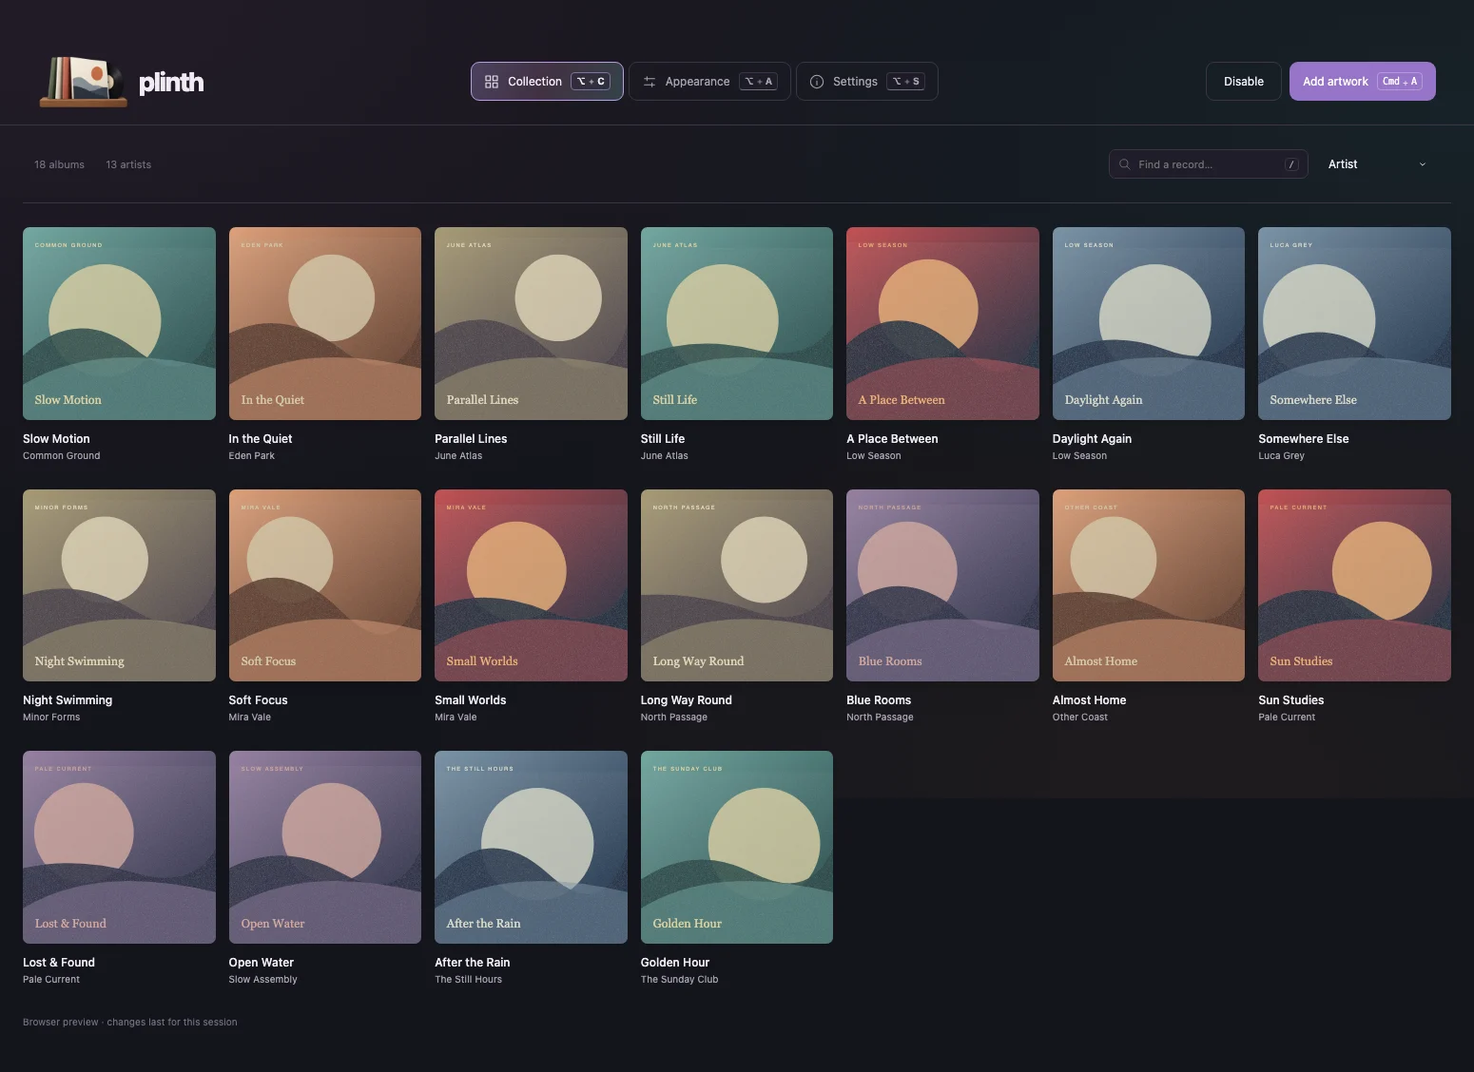
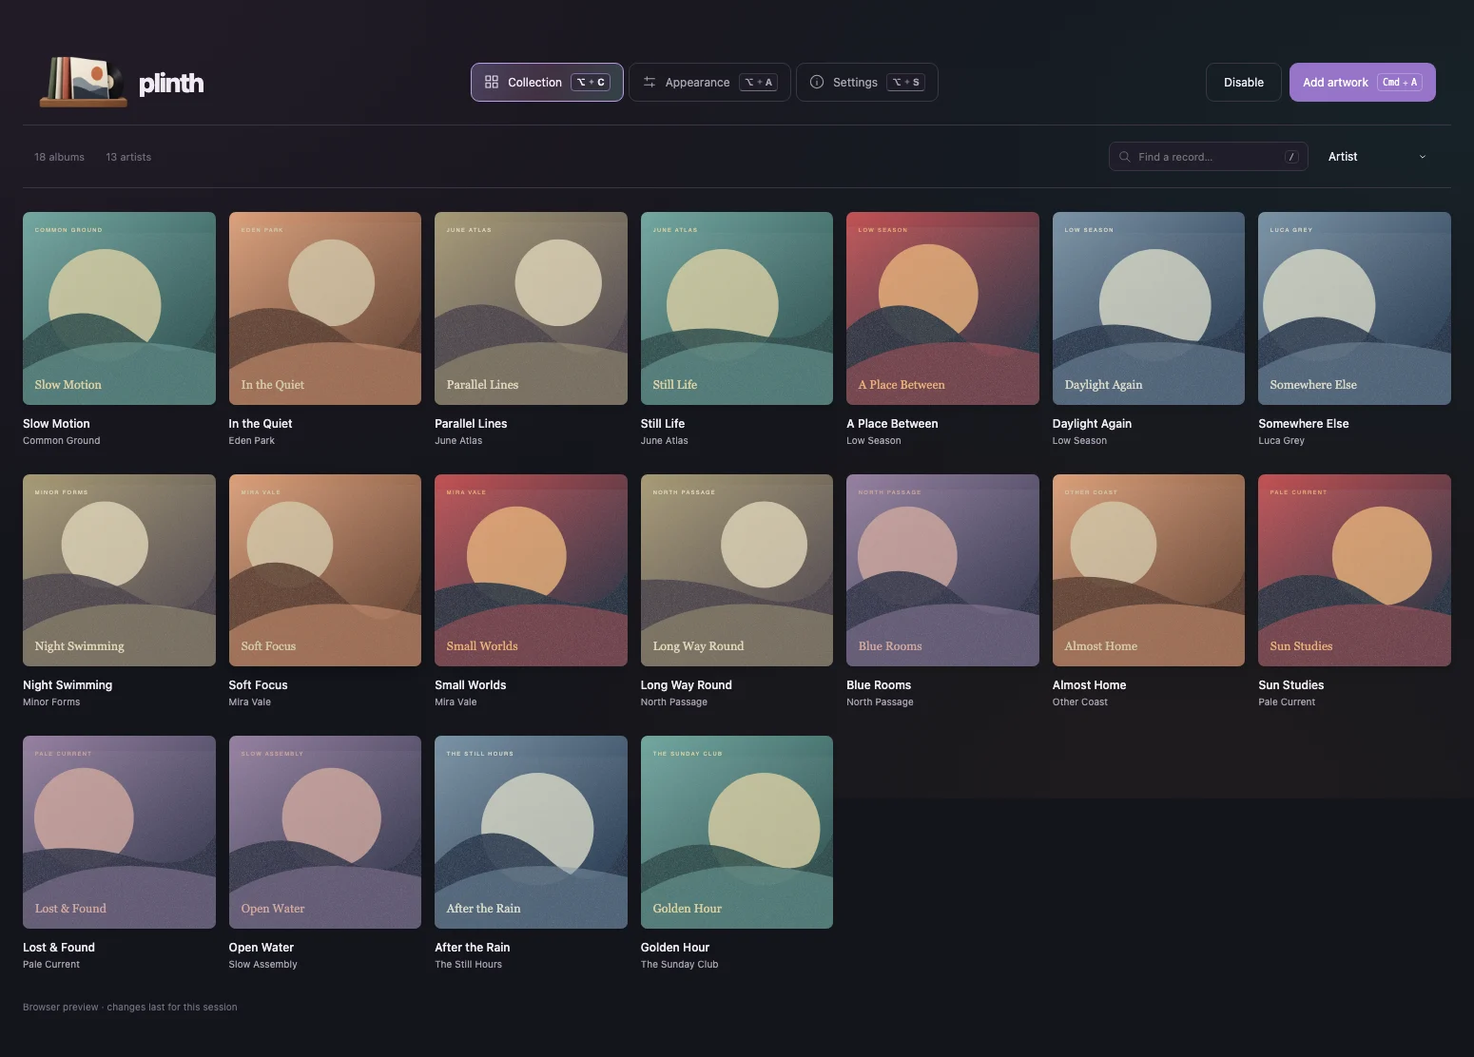
Tighten the collection toolbar row and inset the header divider to match

diff --git a/src/app.css b/src/app.css
@@ -1,8 +1,8 @@
 *{box-sizing:border-box} :root{font-family:-apple-system,BlinkMacSystemFont,'Segoe UI',sans-serif;font-size:14px;color-scheme:dark;--background:radial-gradient(ellipse at 5% 0%,#58334d38,transparent 48%),radial-gradient(ellipse at 100% 15%,#28686829,transparent 44%),radial-gradient(ellipse at 80% 100%,#65482d21,transparent 48%),#14151c;--paper:#201d29e6;--paper-strong:#292531;--ink:#f0ebf3;--muted:#aaa1b3;--faint:#726d7e;--line:#3c3547;--accent:#b99ce7;--accent-bg:#9774c9;--danger:#ef9baa}
 :root[data-theme=light]{color-scheme:light;--background:radial-gradient(ellipse at 0% 0%,#efdce9,transparent 55%),radial-gradient(ellipse at 100% 10%,#dcefee,transparent 50%),#f7f5f3;--paper:#fffdfcd9;--paper-strong:#f0ebf1;--ink:#2b2632;--muted:#7f7387;--faint:#93899a;--line:#dfd6e4;--accent:#74509e;--accent-bg:#805ba9;--danger:#a94057}
 body{margin:0;background:var(--background);background-attachment:fixed;color:var(--ink);min-width:360px}button,input,select{font:inherit}button,select{cursor:pointer}button{display:inline-flex;align-items:center;justify-content:center;gap:9px;border:1px solid var(--line);border-radius:9px;background:transparent;color:var(--ink);padding:10px 14px;transition:background .15s,border-color .15s}button:hover:not(:disabled){background:var(--paper-strong);border-color:var(--faint)}button:disabled{opacity:.5;cursor:default}button.primary{background:var(--accent-bg);border-color:transparent;color:#fff}button.primary:hover:not(:disabled){background:color-mix(in srgb,var(--accent-bg) 85%,white)}button.icon-only{width:34px;height:34px;padding:7px;border-color:transparent;background:transparent}button.text-button{padding:0;border:0;color:var(--accent);background:none;font-size:12px}button:focus-visible,a:focus-visible,input:focus-visible,select:focus-visible{outline:1px solid var(--faint);outline-offset:2px}svg{display:block;flex:0 0 auto}h1,h2,h3,p{margin:0}h1{font-size:34px;font-weight:550;letter-spacing:-1.2px;line-height:1.3}h2{font-size:17px;font-weight:550;letter-spacing:-.3px}small{font-size:12px;color:var(--muted)}input,select{border:1px solid var(--line);background:var(--paper);color:var(--ink);border-radius:8px;padding:10px 12px;min-width:0}select{font-size:12px}label{display:grid;gap:8px;font-size:12px}a{color:inherit;text-decoration:none}kbd{font:10px ui-monospace,monospace;padding:3px 5px;border:1px solid var(--line);border-radius:4px;color:var(--muted)}kbd.shortcut{display:inline-flex;align-items:center;gap:3px;white-space:nowrap}.shortcut-plus{opacity:.75;transform:translateY(1.5px)}
-.titlebar{height:34px;padding:0 27px 0 86px;display:flex;align-items:center;justify-content:space-between;color:var(--faint);font-size:10px;letter-spacing:.2px;user-select:none}.local-indicator{display:flex;gap:6px;align-items:center}.local-indicator>span{width:4px;height:4px;border-radius:50%;background:#85b7a0}header{height:92px;border-bottom:1px solid var(--line);display:flex;align-items:center;justify-content:space-between;gap:24px;padding:0 40px}.header-actions{display:flex;align-items:stretch;gap:8px;flex-shrink:0}.header-actions>button{font-size:12px;padding:10px 13px}.brand{display:flex;align-items:center;gap:10px;font-size:28px;font-weight:760;letter-spacing:-1.4px}.brand-mark{--brand-logo-size:40px;display:flex;align-items:center;justify-content:center;flex-shrink:0;width:var(--brand-logo-size);height:40px}.brand-mark[data-logo="logo-1"]{--brand-logo-size:96px}.brand-mark[data-logo="logo-2"]{--brand-logo-size:72px;margin-right:-8px}.brand-mark svg{width:var(--brand-logo-size);height:var(--brand-logo-size);align-self:center}.version{font-size:9px;font-weight:400;letter-spacing:0;color:var(--faint);align-self:start;padding-top:6px}nav{display:flex;gap:5px}nav button{font-size:12px;border-color:var(--line);padding:10px 13px;color:var(--muted)}nav button:not(.active){background:transparent}nav button.active,nav button.active:hover:not(:disabled){background:linear-gradient(115deg,color-mix(in srgb,var(--accent) 28%,var(--paper)),color-mix(in srgb,#c882ab 20%,var(--paper)) 48%,color-mix(in srgb,#72bab5 24%,var(--paper)));border-color:var(--accent);color:var(--ink)}nav button>svg{width:16px;height:16px}main{max-width:1440px;margin:0 auto;padding:40px 44px 0}.page-heading{display:flex;justify-content:space-between;align-items:center;gap:20px;margin-bottom:36px}.eyebrow{display:block;color:var(--faint);font-size:9px;letter-spacing:1.7px;font-weight:550;margin-bottom:10px}.page-heading p{margin-top:9px;font-size:13px;color:var(--muted);line-height:1.6}.status-pill{font-size:11px;border-radius:22px;padding:9px 13px;background:var(--paper);color:var(--muted);white-space:nowrap}.status-pill svg{width:12px;height:12px;margin-left:5px}.status-dot{width:6px;height:6px;border-radius:50%;background:#83c9ac;box-shadow:0 0 8px #83c9ac22}.paused .status-dot{background:var(--faint)}
-.collection-toolbar{display:flex;align-items:center;justify-content:space-between;gap:20px;border-bottom:1px solid var(--line);margin-bottom:25px;padding:0 12px 24px}.collection-tabs{display:flex;align-items:center;gap:22px;align-self:stretch}.collection-meta{display:flex;align-items:center;font-size:11px;color:var(--faint)}.toolbar-right{display:flex;gap:10px;align-items:center}.toolbar-right select{border-color:transparent;background:transparent;padding-right:5px}.search{display:flex;align-items:center;gap:8px;border:1px solid var(--line);background:var(--paper);border-radius:7px;padding:0 9px;color:var(--faint)}.search>svg{width:14px;height:14px}.search input{width:145px;border:0;background:none;padding:8px 0;font-size:11px}.search kbd{padding:1px 4px;font-size:9px}.album-grid{display:grid;grid-template-columns:repeat(6,minmax(0,1fr));gap:22px 14px}.album-card{min-width:0;position:relative}.artwork{display:block;position:relative;width:100%;padding:0;border:0;border-radius:7px;background:var(--paper-strong);aspect-ratio:1;box-shadow:0 5px 10px #0002;overflow:hidden;transition:transform .2s,box-shadow .2s}.album-edit:hover .artwork{box-shadow:0 8px 20px #0004}.artwork img{width:100%;height:100%;object-fit:cover;display:block}.album-edit{display:block;width:100%;padding:0;border:0;border-radius:0;text-align:left}.album-edit:hover:not(:disabled){background:transparent}.album-caption{display:block;min-width:0;padding:11px 0 8px}.album-title{display:block;font-size:12px;font-weight:500;letter-spacing:0;overflow:hidden;text-overflow:ellipsis;white-space:nowrap;line-height:1.5}.album-artist{display:block;color:var(--muted);font-size:10px;margin-top:2px;text-overflow:ellipsis;overflow:hidden;white-space:nowrap}.album-card.disabled img{opacity:.4}.hidden-label{position:absolute;top:8px;left:8px;border-radius:4px;background:#000b;padding:4px 6px;font-size:9px;color:white}.import-strip{display:flex;align-items:center;justify-content:space-between;gap:16px;margin-top:34px;padding:20px 22px;border:1px dashed var(--line);border-radius:10px}.import-copy{display:flex;align-items:center;gap:15px}.folder-mark{display:grid;place-items:center;width:34px;height:34px;border-radius:8px;background:var(--paper-strong);color:var(--accent)}.import-copy strong{font-size:12px;font-weight:500}.import-copy p{font-size:11px;color:var(--muted);margin-top:5px}.import-strip>button{font-size:11px;padding:8px 10px;white-space:nowrap}.import-strip>button svg{width:13px;height:13px}footer{display:flex;align-items:center;justify-content:space-between;gap:20px;padding:25px 0;color:var(--faint);font-size:10px}footer>span:first-child{display:flex;align-items:center;gap:7px}footer svg{width:14px;height:14px}
+.titlebar{height:34px;padding:0 27px 0 86px;display:flex;align-items:center;justify-content:space-between;color:var(--faint);font-size:10px;letter-spacing:.2px;user-select:none}.local-indicator{display:flex;gap:6px;align-items:center}.local-indicator>span{width:4px;height:4px;border-radius:50%;background:#85b7a0}header{height:92px;position:relative;display:flex;align-items:center;justify-content:space-between;gap:24px;padding:0 40px}.header-actions{display:flex;align-items:stretch;gap:8px;flex-shrink:0}.header-actions>button{font-size:12px;padding:10px 13px}.brand{display:flex;align-items:center;gap:10px;font-size:28px;font-weight:760;letter-spacing:-1.4px}.brand-mark{--brand-logo-size:40px;display:flex;align-items:center;justify-content:center;flex-shrink:0;width:var(--brand-logo-size);height:40px}.brand-mark[data-logo="logo-1"]{--brand-logo-size:96px}.brand-mark[data-logo="logo-2"]{--brand-logo-size:72px;margin-right:-8px}.brand-mark svg{width:var(--brand-logo-size);height:var(--brand-logo-size);align-self:center}.version{font-size:9px;font-weight:400;letter-spacing:0;color:var(--faint);align-self:start;padding-top:6px}nav{display:flex;gap:5px}nav button{font-size:12px;border-color:var(--line);padding:10px 13px;color:var(--muted)}nav button:not(.active){background:transparent}nav button.active,nav button.active:hover:not(:disabled){background:linear-gradient(115deg,color-mix(in srgb,var(--accent) 28%,var(--paper)),color-mix(in srgb,#c882ab 20%,var(--paper)) 48%,color-mix(in srgb,#72bab5 24%,var(--paper)));border-color:var(--accent);color:var(--ink)}nav button>svg{width:16px;height:16px}main{max-width:1440px;margin:0 auto;padding:40px 44px 0}.page-heading{display:flex;justify-content:space-between;align-items:center;gap:20px;margin-bottom:36px}.eyebrow{display:block;color:var(--faint);font-size:9px;letter-spacing:1.7px;font-weight:550;margin-bottom:10px}.page-heading p{margin-top:9px;font-size:13px;color:var(--muted);line-height:1.6}.status-pill{font-size:11px;border-radius:22px;padding:9px 13px;background:var(--paper);color:var(--muted);white-space:nowrap}.status-pill svg{width:12px;height:12px;margin-left:5px}.status-dot{width:6px;height:6px;border-radius:50%;background:#83c9ac;box-shadow:0 0 8px #83c9ac22}.paused .status-dot{background:var(--faint)}
+.collection-toolbar{display:flex;align-items:center;justify-content:space-between;gap:20px;border-bottom:1px solid var(--line);margin:-8px 0 25px;padding:0 12px 16px}.collection-tabs{display:flex;align-items:center;gap:22px;align-self:stretch}.collection-meta{display:flex;align-items:center;font-size:11px;color:var(--faint)}.toolbar-right{display:flex;gap:10px;align-items:center}.toolbar-right select{border-color:transparent;background:transparent;padding-right:5px}.search{display:flex;align-items:center;gap:8px;border:1px solid var(--line);background:var(--paper);border-radius:7px;padding:0 9px;color:var(--faint)}.search>svg{width:14px;height:14px}.search input{width:145px;border:0;background:none;padding:8px 0;font-size:11px}.search kbd{padding:1px 4px;font-size:9px}.album-grid{display:grid;grid-template-columns:repeat(6,minmax(0,1fr));gap:22px 14px}.album-card{min-width:0;position:relative}.artwork{display:block;position:relative;width:100%;padding:0;border:0;border-radius:7px;background:var(--paper-strong);aspect-ratio:1;box-shadow:0 5px 10px #0002;overflow:hidden;transition:transform .2s,box-shadow .2s}.album-edit:hover .artwork{box-shadow:0 8px 20px #0004}.artwork img{width:100%;height:100%;object-fit:cover;display:block}.album-edit{display:block;width:100%;padding:0;border:0;border-radius:0;text-align:left}.album-edit:hover:not(:disabled){background:transparent}.album-caption{display:block;min-width:0;padding:11px 0 8px}.album-title{display:block;font-size:12px;font-weight:500;letter-spacing:0;overflow:hidden;text-overflow:ellipsis;white-space:nowrap;line-height:1.5}.album-artist{display:block;color:var(--muted);font-size:10px;margin-top:2px;text-overflow:ellipsis;overflow:hidden;white-space:nowrap}.album-card.disabled img{opacity:.4}.hidden-label{position:absolute;top:8px;left:8px;border-radius:4px;background:#000b;padding:4px 6px;font-size:9px;color:white}.import-strip{display:flex;align-items:center;justify-content:space-between;gap:16px;margin-top:34px;padding:20px 22px;border:1px dashed var(--line);border-radius:10px}.import-copy{display:flex;align-items:center;gap:15px}.folder-mark{display:grid;place-items:center;width:34px;height:34px;border-radius:8px;background:var(--paper-strong);color:var(--accent)}.import-copy strong{font-size:12px;font-weight:500}.import-copy p{font-size:11px;color:var(--muted);margin-top:5px}.import-strip>button{font-size:11px;padding:8px 10px;white-space:nowrap}.import-strip>button svg{width:13px;height:13px}footer{display:flex;align-items:center;justify-content:space-between;gap:20px;padding:25px 0;color:var(--faint);font-size:10px}footer>span:first-child{display:flex;align-items:center;gap:7px}footer svg{width:14px;height:14px}
 .empty-state{min-height:370px;display:flex;flex-direction:column;align-items:center;justify-content:center;text-align:center;gap:18px}.empty-state .eyebrow{margin:0}.empty-state h2{font-size:25px}.empty-state p{font-size:13px;line-height:1.8;color:var(--muted)}.empty-art{width:64px;height:64px;background:var(--paper);border:1px solid var(--line);border-radius:16px;display:grid;place-items:center;color:var(--accent)}.empty-art svg{width:30px;height:30px}.actions{display:flex;gap:10px}.panel{background:var(--paper);border:1px solid var(--line);border-radius:13px;padding:24px}.panel-heading{display:flex;align-items:center;justify-content:space-between;margin-bottom:21px}.appearance-layout{display:grid;grid-template-columns:minmax(0,1.6fr) minmax(310px,1fr);gap:32px}.preview-column{position:sticky;top:25px;align-self:start}.section-label{display:flex;justify-content:space-between;color:var(--faint);font-size:9px;letter-spacing:1px;margin-bottom:16px}.section-label>span:last-child{letter-spacing:0}.monitor-preview{position:relative;border:6px solid #302c38;border-bottom-width:16px;border-radius:14px;background:radial-gradient(ellipse at 15% 10%,#735c6880,transparent 60%),linear-gradient(140deg,#253543,#202128 55%,#514e40);height:350px;overflow:hidden;box-shadow:0 16px 35px #0002}.preview-menubar{display:flex;gap:8px;align-items:center;font-size:7px;color:#ddd;background:#ffffff0a;height:15px;padding:0 7px}.preview-menubar svg{width:9px;height:9px}.preview-clock{margin-left:auto}.preview-art{display:grid;align-content:start;max-height:calc(100% - 15px);overflow:auto}.preview-art img{width:100%;aspect-ratio:1;object-fit:cover;transition:transform .2s;position:relative}.preview-art img:hover{transform:scale(var(--preview-scale));z-index:10}.preview-empty{font-size:12px;color:#bbb;grid-column:1/-1;padding:80px 0;text-align:center}.preview-dock{position:absolute;bottom:6px;left:50%;transform:translateX(-50%);display:flex;gap:6px;padding:5px 7px;border:1px solid #ffffff22;background:#ffffff18;border-radius:8px;backdrop-filter:blur(12px)}.preview-dock>span{display:block;width:18px;height:18px;border-radius:5px;background:#90b1be88}.preview-dock>span:nth-child(2){background:#b48caf88}.preview-dock>span:nth-child(3){background:#b9b19188}.preview-dock>span:nth-child(4){background:#91b9a988}.monitor-foot{width:100px;height:29px;background:linear-gradient(#302c38,#403b46);margin:0 auto;border-radius:0 0 12px 12px;clip-path:polygon(30% 0,70% 0,77% 82%,100% 90%,100% 100%,0 100%,0 90%,23% 82%)}.preview-note{color:var(--muted);font-size:11px;display:flex;align-items:center;justify-content:center;gap:8px;line-height:1.6;margin:22px 0}.preview-note svg{width:14px;height:14px}.feature-note{display:flex;gap:15px;border-top:1px solid var(--line);padding-top:25px;margin-top:32px;color:var(--muted)}.feature-note>svg{color:var(--accent)}.feature-note strong{font-size:12px;font-weight:500;color:var(--ink)}.feature-note p{font-size:12px;line-height:1.8;margin-top:8px;max-width:390px}.segmented{display:flex;border:1px solid var(--line);border-radius:8px;padding:3px;gap:3px;margin-bottom:9px}.segmented button{flex:1;padding:7px 4px;font-size:11px;border:0;border-radius:5px;color:var(--muted)}.segmented button.chosen{background:var(--paper-strong);color:var(--ink)}.field-note{font-size:11px;color:var(--muted);line-height:1.7}.slider-field{margin-top:20px;gap:9px}.slider-field>span{display:flex;justify-content:space-between;font-size:12px}.slider-field output{font:11px ui-monospace,monospace;color:var(--muted)}input[type=range]{width:100%;height:4px;margin:5px 0;padding:0;accent-color:var(--accent);cursor:pointer}.toggle-row{display:flex;align-items:center;justify-content:space-between;gap:20px;margin-top:22px;font-size:12px}.toggle-row small{display:block;font-size:10px;color:var(--muted);margin-top:6px}.switch{appearance:none;flex:0 0 auto;width:32px;height:19px;border-radius:20px;padding:0;background:var(--line);border:0;position:relative;cursor:pointer}.switch:after{content:'';display:block;width:13px;height:13px;border-radius:50%;background:#fff;position:absolute;top:3px;left:3px;transition:transform .15s}.switch:checked{background:var(--accent-bg)}.switch:checked:after{transform:translateX(13px)}.control-divider{border-top:1px solid var(--line);margin-top:26px}.settings-grid{display:grid;grid-template-columns:1fr 1fr;gap:22px}.settings-panel h2{margin-bottom:12px;font-size:20px}.settings-panel>p.description{font-size:13px;line-height:1.85;color:var(--muted);margin-bottom:24px}.setting-row{display:flex;align-items:center;justify-content:space-between;gap:16px;margin:25px 0}.setting-row select{max-width:60%}.storage-summary{display:flex;gap:45px;margin:24px 0 30px;color:var(--muted);font-size:11px}.storage-summary strong{display:block;font-size:30px;color:var(--ink);font-weight:500;letter-spacing:-1px;margin-bottom:6px}.settings-panel>button{font-size:12px;margin-bottom:15px}.shortcut-row{border-top:1px solid var(--line);padding-top:16px;margin-bottom:20px;display:flex;align-items:center;justify-content:space-between;font-size:12px}
 .banner{margin:15px 44px 0;border:1px solid #cf739066;border-radius:8px;padding:10px 14px;font-size:12px;display:flex;align-items:center;justify-content:space-between;gap:16px}.banner.error{color:var(--danger);background:var(--paper)}.banner>span{white-space:pre-wrap;max-height:140px;overflow:auto}.toast{position:fixed;bottom:24px;left:50%;transform:translateX(-50%);z-index:80;padding:13px 18px;border:1px solid var(--line);border-radius:10px;background:var(--paper-strong);box-shadow:0 10px 40px #0004;display:flex;align-items:center;gap:10px;font-size:12px;max-width:90vw}.toast svg{color:#83c9ac}.drop-overlay{position:fixed;inset:8px;z-index:100;border:2px dashed var(--accent);border-radius:15px;background:#211c2bed;backdrop-filter:blur(15px);display:flex;flex-direction:column;align-items:center;justify-content:center;gap:22px;pointer-events:none}.drop-overlay>svg{width:45px;height:45px;color:var(--accent)}.drop-overlay p{color:var(--muted)}.import-progress{position:fixed;bottom:25px;left:50%;transform:translateX(-50%);z-index:90;background:var(--paper-strong);border:1px solid var(--line);border-radius:10px;padding:15px 22px;font-size:12px;display:flex;gap:12px;align-items:center}.import-progress>span{width:13px;height:13px;border-radius:50%;border:2px solid var(--line);border-top-color:var(--accent);animation:spin 1s linear infinite}@keyframes spin{to{transform:rotate(360deg)}}.visually-hidden{position:absolute;width:1px;height:1px;clip-path:inset(50%);overflow:hidden;white-space:nowrap}
 dialog{width:min(510px,calc(100vw - 40px));padding:26px;border:1px solid var(--line);border-radius:16px;background:var(--paper-strong);color:var(--ink);box-shadow:0 25px 100px #0007;max-height:90vh;overflow:auto}dialog::backdrop{background:#0006;backdrop-filter:blur(8px)}.editor-top{display:flex;gap:23px;align-items:center;margin-bottom:26px}.editor-top>img{width:130px;height:130px;object-fit:cover;border-radius:7px;box-shadow:0 8px 20px #0003}.editor-top>div{min-width:0}.editor-top h3{font-size:20px;overflow-wrap:anywhere;font-weight:550;letter-spacing:-.4px}.editor-top p{color:var(--muted);font-size:12px;margin:7px 0 18px}dialog form>label{margin:18px 0;position:relative}.two-fields{display:grid;grid-template-columns:1.2fr 1fr;gap:14px}.optional{position:absolute;right:0;color:var(--faint);font-size:10px}.editor-actions{display:flex;align-items:center;justify-content:space-between;border-top:1px solid var(--line);margin-top:24px;padding-top:20px}.danger{color:var(--danger)}
@@ -24,7 +24,7 @@ dialog{width:min(510px,calc(100vw - 40px));padding:26px;border:1px solid var(--l
 .quit-dialog{width:min(520px,calc(100vw - 40px))}.quit-dialog h2{font-size:20px;margin-bottom:14px}.quit-actions{display:flex;justify-content:flex-end;gap:8px;margin-top:26px}.quit-actions button{font-size:12px;padding:9px 12px}
 
 /* Artwork remains the focus; hover actions share the lower edge. */
-.album-dialog{width:min(650px,calc(100vw - 32px))}.album-dialog form{position:relative}.editor-close{position:absolute;top:0;right:0;z-index:2}.editor-top{gap:24px;align-items:center}.editor-artwork{width:300px;flex:0 0 300px}.artwork-actions{inset:auto 0 0;height:44px;display:grid;grid-template-columns:1fr 1fr;gap:0;padding:0;background:linear-gradient(transparent,#0008);opacity:0;transform:translateY(14px);transition:opacity .2s ease,transform .2s ease;pointer-events:none}.editor-artwork:hover .artwork-actions,.editor-artwork:focus-within .artwork-actions{opacity:1;transform:translateY(0);pointer-events:auto}.artwork-actions button.icon-only{width:100%;height:100%;padding:11px 0 10px;border:0;border-radius:0;background:transparent;backdrop-filter:none;color:#ffffffe0;align-items:flex-end}.artwork-actions button.icon-only:hover{background:linear-gradient(transparent,#ffffff0d);color:white}.artwork-actions svg{width:23px;height:23px;filter:drop-shadow(0 1px 3px #0008)}img{-webkit-user-drag:none;user-select:none}.desktop-toggle{min-width:80px;justify-content:center;text-align:center}.app-shell main{max-width:none;width:100%;padding-inline:24px}.album-grid{width:100%}@media(max-width:700px){.editor-artwork{width:260px;flex-basis:260px}.editor-top{gap:16px}}@media(max-width:520px){.editor-top{flex-direction:column;align-items:stretch}.editor-artwork{width:100%;max-width:320px;flex-basis:auto;margin:0 auto}.app-shell main{padding-inline:16px}}
+.album-dialog{width:min(650px,calc(100vw - 32px))}.album-dialog form{position:relative}.editor-close{position:absolute;top:0;right:0;z-index:2}.editor-top{gap:24px;align-items:center}.editor-artwork{width:300px;flex:0 0 300px}.artwork-actions{inset:auto 0 0;height:44px;display:grid;grid-template-columns:1fr 1fr;gap:0;padding:0;background:linear-gradient(transparent,#0008);opacity:0;transform:translateY(14px);transition:opacity .2s ease,transform .2s ease;pointer-events:none}.editor-artwork:hover .artwork-actions,.editor-artwork:focus-within .artwork-actions{opacity:1;transform:translateY(0);pointer-events:auto}.artwork-actions button.icon-only{width:100%;height:100%;padding:11px 0 10px;border:0;border-radius:0;background:transparent;backdrop-filter:none;color:#ffffffe0;align-items:flex-end}.artwork-actions button.icon-only:hover{background:linear-gradient(transparent,#ffffff0d);color:white}.artwork-actions svg{width:23px;height:23px;filter:drop-shadow(0 1px 3px #0008)}img{-webkit-user-drag:none;user-select:none}.desktop-toggle{min-width:80px;justify-content:center;text-align:center}.app-shell main{max-width:none;width:100%;padding-inline:24px}header::after{content:'';position:absolute;left:24px;right:24px;bottom:0;border-bottom:1px solid var(--line);pointer-events:none}.album-grid{width:100%}@media(max-width:700px){.editor-artwork{width:260px;flex-basis:260px}.editor-top{gap:16px}}@media(max-width:520px){.editor-top{flex-direction:column;align-items:stretch}.editor-artwork{width:100%;max-width:320px;flex-basis:auto;margin:0 auto}.app-shell main{padding-inline:16px}header::after{left:16px;right:16px}}
 
 .sort-picker{position:relative}.shuffle-daily{display:flex;align-items:center;gap:5px;font-size:12px;color:var(--muted);cursor:pointer}.shuffle-daily input{margin:0;accent-color:var(--accent)}.sort-trigger{font-size:12px;min-width:128px;justify-content:space-between;border-color:transparent;padding:8px 10px}.sort-trigger svg{width:14px;height:14px}.sort-menu{position:absolute;z-index:30;right:0;top:calc(100% + 7px);width:175px;background:var(--paper-strong);border:1px solid var(--line);border-radius:9px;box-shadow:0 10px 30px #0004;padding:5px}.sort-menu button{width:100%;border:0;justify-content:space-between;border-radius:5px;font-size:12px;padding:10px}.sort-menu button[aria-checked=true]{color:var(--accent)}.sort-menu button:hover{background:var(--paper)}.sort-menu button svg{width:14px;height:14px}@media(max-width:760px){.toolbar-right{flex-wrap:wrap;justify-content:flex-end}.sort-trigger{min-width:105px}}
 
